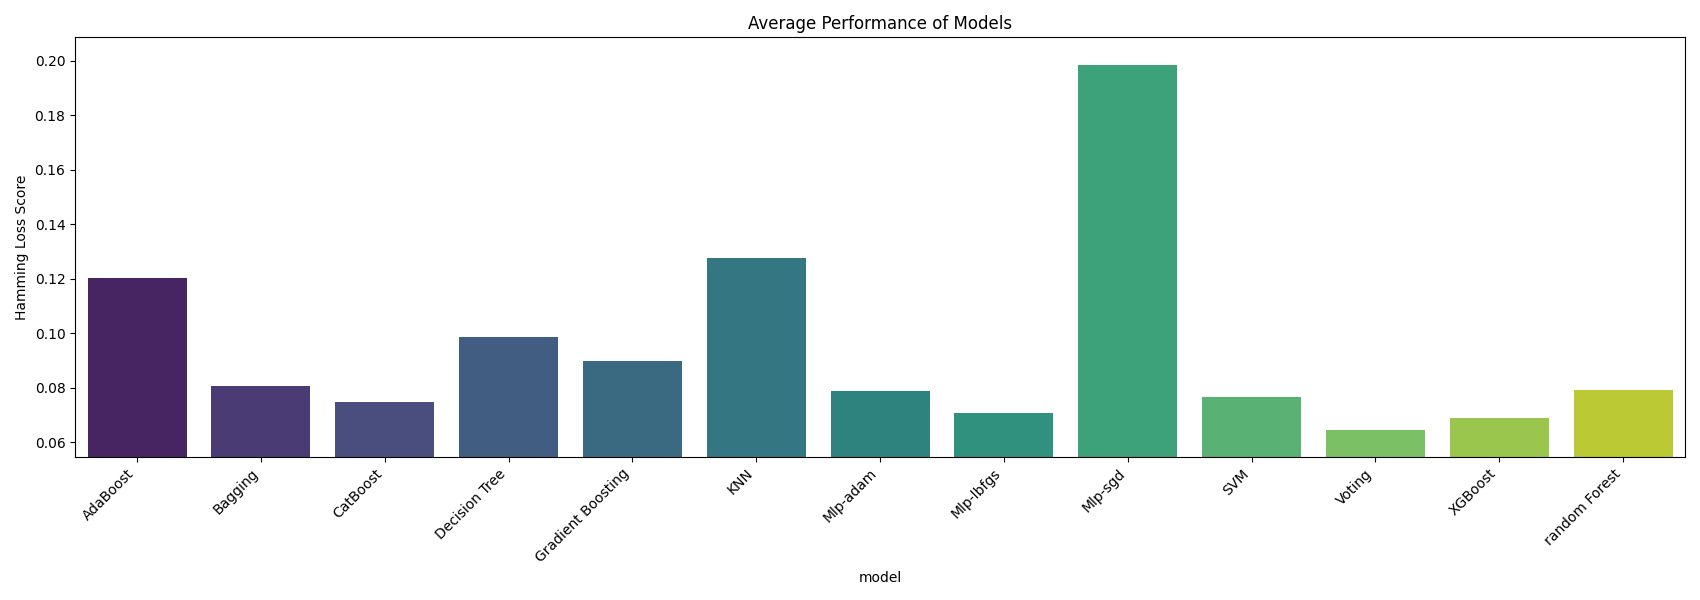
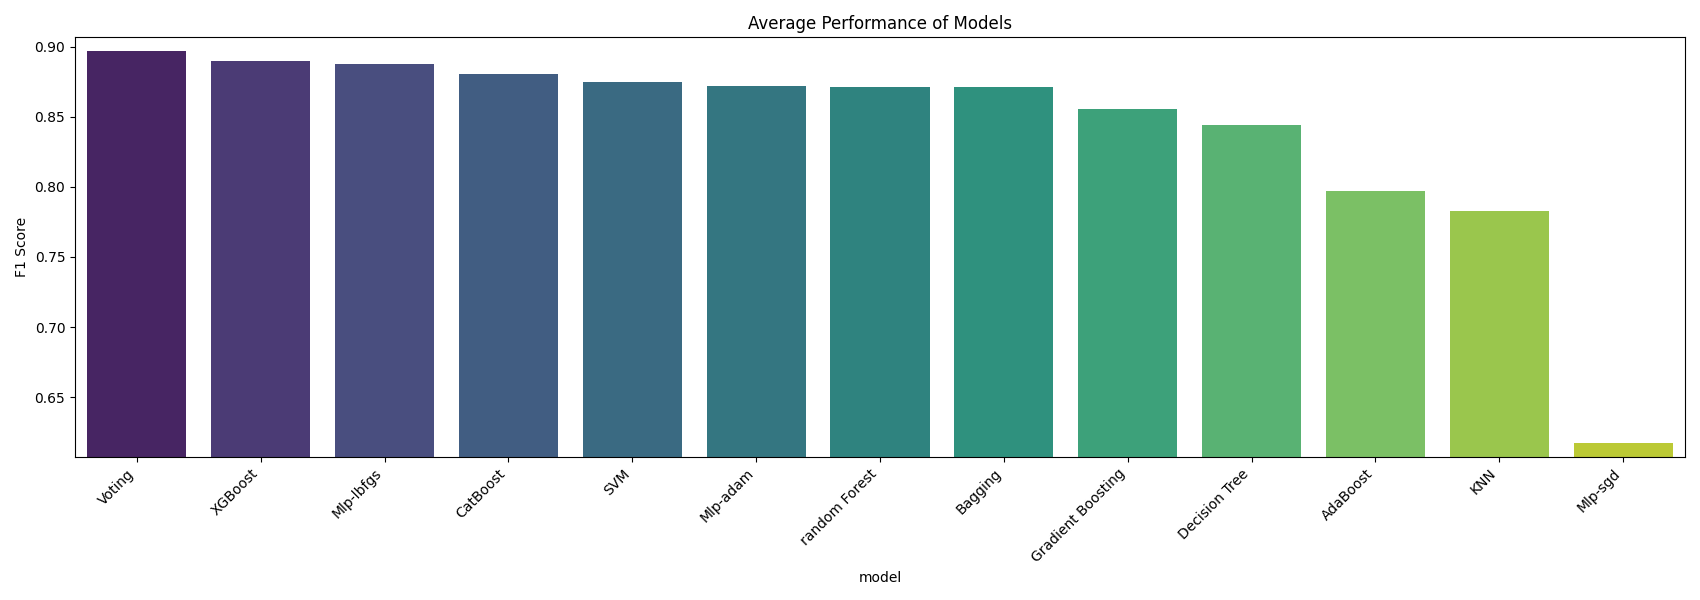
added graphs

diff --git a/resultsAnalyse.py b/resultsAnalyse.py
@@ -2,9 +2,10 @@ import pandas as pd
 import matplotlib.pyplot as plt
 import seaborn as sns
 import os
+import numpy as np
 import shutil
 from models import  runClassifierChain,columns,predict_multilabel_classifier,runClassifierChain
-from sklearn.metrics import multilabel_confusion_matrix,classification_report,ConfusionMatrixDisplay, hamming_loss
+from sklearn.metrics import multilabel_confusion_matrix,classification_report,ConfusionMatrixDisplay, hamming_loss,confusion_matrix
 from skmultilearn.problem_transform import BinaryRelevance
 from models import modelsDic,predict_multilabel_classifier,vectorize_data
 from xgboost import XGBClassifier
@@ -99,10 +100,11 @@ def evaluateMultiLabelClassifier(model_name, dataset_type):
     drawConfusionMatrix(predictions,test_df[columns],model_name)
 def drawConfusionMatrix(predictions, y_test,modelName):
     mcm = multilabel_confusion_matrix(predictions, y_test)
-
+    create_single_confusion_matrix(mcm,modelName)
     # Visualize each matrix
     
     for i, (matrix, label) in enumerate(zip(mcm, columns)):
+        # Plot the confusion matrix for each label
         plt.figure(figsize=(5, 4))
         sns.heatmap(matrix, annot=True, fmt='d', cmap='Blues',
                     xticklabels=['Predicted No', 'Predicted Yes'],
@@ -111,6 +113,32 @@ def drawConfusionMatrix(predictions, y_test,modelName):
         plt.ylabel('True label')
         plt.xlabel('Predicted label')
         plt.savefig(f"plots/ConfusionMatrix/{modelName}/{label}.png")
+def create_single_confusion_matrix(mcm,name):
+    micro_cm = np.sum(mcm, axis=0)  # Sum all individual confusion matrices
+
+    # Plot the micro-averaged confusion matrix
+    plt.figure(figsize=(6, 6))
+    plt.imshow(micro_cm, interpolation='nearest', cmap=plt.cm.Blues)
+    plt.title('Micro-Averaged Confusion Matrix\n(Sum of all label confusion matrices)')
+    plt.colorbar()
+
+    # Add text annotations
+    thresh = micro_cm.max() / 2.
+    for i in range(micro_cm.shape[0]):
+        for j in range(micro_cm.shape[1]):
+            plt.text(j, i, format(micro_cm[i, j], 'd'),
+                    horizontalalignment="center",
+                    color="white" if micro_cm[i, j] > thresh else "black")
+
+    # Label the axes
+    class_names = ['Negative', 'Positive']
+    plt.xticks([0, 1], [f'Predicted {name}' for name in class_names])
+    plt.yticks([0, 1], [f'Actual {name}' for name in class_names])
+    plt.ylabel('True label')
+    plt.xlabel('Predicted label')
+
+    plt.tight_layout()
+    plt.savefig(f"plots/ConfusionMatrix/{name}/micro_averaged.png")
 
 def best_performing_datasets(metric,topK,ascending=False):
     results = pd.read_csv("ResultsArchive/results.csv")
@@ -160,52 +188,38 @@ def get_bar_graph_average_performance_of_datasets(df):
     plt.xticks(rotation=45, ha='right')
     plt.tight_layout()  # Ensure everything fits within the figure
     plt.savefig(f"plots/bar_graphs/dataset_performance.png")
-def get_bar_graph_average_performance_of_model(df):
+def get_bar_graph_average_performance_of_model(metric,df,ascending=False):
     df = df.groupby("MODEL")[["ACCURACY","F1","RECALL","PRECISION","HAMMING_LOSS"]].mean().reset_index()
-
+    df.sort_values(by=metric, ascending=ascending, inplace=True)
     # Plot the bar graph using seaborn
     plt.figure(figsize=(17, 6))
-    sns.barplot(x='MODEL', y='HAMMING_LOSS', data=df, palette='viridis')
+    sns.barplot(x='MODEL', y=metric, data=df, palette='viridis')
     plt.xlabel('model')
-    plt.ylabel('Hamming Loss Score')
+    plt.ylabel(metric+' Score')
     plt.title('Average Performance of Models')
 
     # Set y-axis limits (lower limit set to 0.08)
-    plt.ylim(df['HAMMING_LOSS'].min()- 0.01, df['HAMMING_LOSS'].max() + 0.01)  # Add a small margin to the upper limit«
+    plt.ylim(df[metric].min()- 0.01, df[metric].max() + 0.01)  # Add a small margin to the upper limit«
 
     plt.xticks(rotation=45, ha='right')
     plt.tight_layout()  # Ensure everything fits within the figure
     plt.savefig(f"plots/bar_graphs/model_performance.png")
 
-def get_bar_graph_of_top_5_models_with_datasets(df):
+def get_bar_graph_of_top_k_models_by_metric(k,metric,df,ascending=False):
     # Get the top 5 models for each dataset
-    top_5_models = df.sort_values(by='HAMMING_LOSS', ascending=True).head(5)
-    top_5_models["graph_label"] = top_5_models["MODEL"] + " with " + top_5_models["SAMPLING"]
+    top_5_models = df.sort_values(by=metric, ascending=ascending).drop_duplicates("MODEL").head(k)
+    top_5_models["graph_label"] = top_5_models["MODEL"]
     # Plotting
     plt.figure()
-    sns.barplot(x='graph_label', y='HAMMING_LOSS', data=top_5_models, palette='viridis')
+    sns.barplot(x='graph_label', y=metric, data=top_5_models, palette='viridis')
     plt.xlabel('Model')
-    plt.ylabel('Hamming Loss Score')
+    plt.ylabel(metric+' Score')
     plt.title('Top 5 Models')
-    plt.ylim(top_5_models['HAMMING_LOSS'].min()- 0.001, top_5_models['HAMMING_LOSS'].max() + 0.001)
+    plt.ylim(top_5_models[metric].min()- top_5_models[metric].min()/4, top_5_models[metric].max() + 0.001)
+        
     plt.xticks(rotation=45, ha='right')
     plt.tight_layout()
     plt.savefig(f"plots/bar_graphs/top_5_models_per_dataset.png")
-
-def get_bar_graph_of_top_5_models_with_datasets_no_voting(df):
-    # Get the top 5 models for each dataset
-    top_5_models = df[(df["MODEL"] != "Voting")].sort_values(by='HAMMING_LOSS', ascending=True).head(5)
-    top_5_models["graph_label"] = top_5_models["MODEL"] + " with " + top_5_models["SAMPLING"]
-    # Plotting
-    plt.figure()
-    sns.barplot(x='graph_label', y='HAMMING_LOSS', data=top_5_models, palette='viridis')
-    plt.xlabel('Model')
-    plt.ylabel('Hamming Loss Score')
-    plt.title('Top 5 Models excuding VotingClassifier')
-    plt.ylim(top_5_models['HAMMING_LOSS'].min()- 0.001, top_5_models['HAMMING_LOSS'].max() + 0.001)
-    plt.xticks(rotation=45, ha='right')
-    plt.tight_layout()
-    plt.savefig(f"plots/bar_graphs/top_5_models_per_dataset_no_voting.png")
 
 def get_failed_queries_of_model(model, train_df, val_df, test_df):
     columns = ["ENTREGA", "OUTROS", "PRODUTO", "CONDICOESDERECEBIMENTO", "ANUNCIO"]
@@ -222,15 +236,15 @@ def get_failed_queries_of_model(model, train_df, val_df, test_df):
     train_X, val_X, test_X = vectorize_data(train_df, val_df, test_df)
 
     # Ensure labels are numeric
-    train_y = train_df[columns].fillna(0).astype(int)
-    val_y = val_df[columns].fillna(0).astype(int)
-    test_y = test_df[columns].fillna(0).astype(int)
+    train_y = train_df[columns]
+    val_y = val_df[columns]
+    test_y = test_df[columns]
 
     # Create a Binary Relevance classifier with the specified model
     br = BinaryRelevance(classifier=model, require_dense=[False, True])
 
     # Fit the model on the training data
-    br.fit(train_X, train_y)
+    br.fit(train_X, train_df[columns])
 
     # Predict on the validation and test data
     val_predictions = br.predict(val_X)
@@ -270,10 +284,11 @@ if __name__ == '__main__':
     # the best performing 'MLPClassifier', 'VotingClassifier'
 
     results = pd.read_csv("ResultsArchive/results_all.csv")
-    get_bar_graph_average_performance_of_datasets(results)
-    get_bar_graph_average_performance_of_model(results)
-    get_bar_graph_of_top_5_models_with_datasets(results)
-    get_bar_graph_of_top_5_models_with_datasets_no_voting(results)
+    #get_bar_graph_average_performance_of_datasets(results)
+    #get_bar_graph_average_performance_of_model("F1",results)
+    
+    #get_bar_graph_of_top_k_models_by_metric(10,"F1",results)
+    evaluateMultiLabelClassifier("KNeighborsClassifier","datasets_stem_text")
 
     """
     if os.path.exists("plots"):
